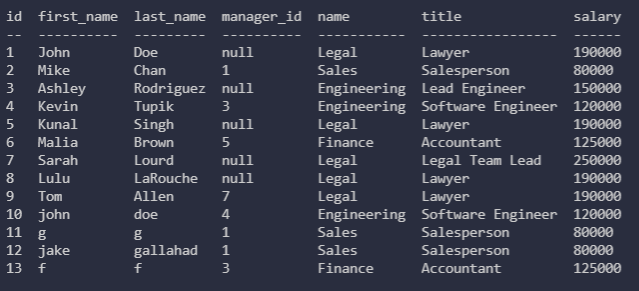
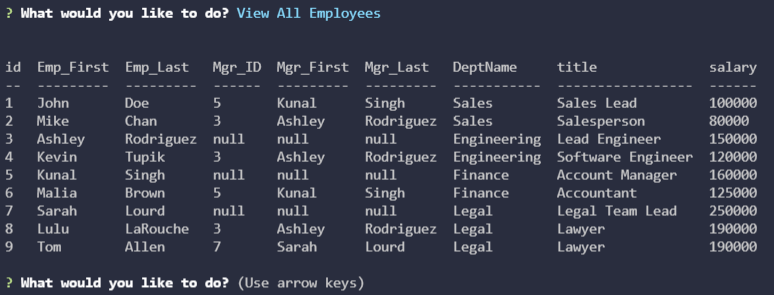
added bonus commands to code, updated README, changed screenshots, added new Walkthrough link

diff --git a/index.js b/index.js
@@ -8,7 +8,7 @@ init();
 
 // Display logo text, load main prompts
 function init() {
-  const logoText = logo({ name: "Linda's Employee Manager" }).render();
+  const logoText = logo({ name: "Rocking Employee Manager" }).render();
 
   console.log(logoText);
 
@@ -31,10 +31,10 @@ function loadMainPrompts() {
           value: "VIEW_EMPLOYEES_BY_DEPARTMENT",
         },
         // Bonus
-        // {
-        //   name: "View All Employees By Manager",
-        //   value: "VIEW_EMPLOYEES_BY_MANAGER"
-        // },
+        {
+          name: "View All Employees By Manager",
+          value: "VIEW_EMPLOYEES_BY_MANAGER"
+        },
         {
           name: "Add Employee",
           value: "ADD_EMPLOYEE",
@@ -49,10 +49,10 @@ function loadMainPrompts() {
           value: "UPDATE_EMPLOYEE_ROLE",
         },
         // Bonus
-        // {
-        //   name: "Update Employee Manager",
-        //   value: "UPDATE_EMPLOYEE_MANAGER"
-        // },
+        {
+          name: "Update Employee Manager",
+          value: "UPDATE_EMPLOYEE_MANAGER"
+        },
         {
           name: "View All Roles",
           value: "VIEW_ROLES",
@@ -92,10 +92,14 @@ function loadMainPrompts() {
         return viewEmployees();
       case "VIEW_EMPLOYEES_BY_DEPARTMENT":
         return viewEmployeesByDepartment();
+      case "VIEW_EMPLOYEES_BY_MANAGER":
+        return viewEmployeesByManager();
       case "ADD_EMPLOYEE":
         return addEmployee();
       case "UPDATE_EMPLOYEE_ROLE":
         return updateEmployeeRole();
+      case "UPDATE_EMPLOYEE_MANAGER":
+        return updateEmployeeManager();
       case "VIEW_DEPARTMENTS":
         return viewDepartments();
       case "ADD_DEPARTMENT":
@@ -148,6 +152,33 @@ async function viewEmployeesByDepartment() {
   loadMainPrompts();
 }
 
+async function viewEmployeesByManager() {
+  const managers = await db.findAllManagers();
+
+  const managerChoices = managers.map(({ id, name }) => ({
+    // CREATE TWO PROPERTIES name AND value FOR THIS OBJECT. THE PROPERTY name SHOULD CONTAIN THE NAME OF THE Manager.
+    // THE PROPERTY value SHOULD CONTAIN id.
+       name,
+       value: id
+
+  }));
+
+  const { managerId } = await prompt([
+    {
+      type: "list",
+      name: "managerId",
+      message: "Which manager would you like to see employees for?",
+      choices: managerChoices,
+    },
+  ]);
+
+  const employees = await db.findAllEmployeesByManager(managerId);
+
+  console.log("\n");
+  console.table(employees);
+
+  loadMainPrompts();
+}
 async function updateEmployeeRole() {
   const employees = await db.findAllEmployees();
 
@@ -190,6 +221,52 @@ async function updateEmployeeRole() {
   await db.updateEmployeeRole(employeeId, roleId);
 
   console.log(chalk.magenta("Updated employee's role"));
+
+  loadMainPrompts();
+}
+
+async function updateEmployeeManager() {
+  const employees = await db.findAllEmployees();
+
+  const employeeChoices = employees.map(({ id, Emp_First, Emp_Last}) => ({
+    // CREATE TWO PROPERTIES name AMD value FOR THIS OBJECT. THE PROPERTY name SHOULD CONTAIN THE CONCATENATION OF THE FIRST HAME AND THE LAST NAME.
+    // THE PROPERTY value SHOULD CONTAIN id.
+    // THIS OBJECT FOR EACH MANAGER WILL RETURN TO MAP() TO CONSTRUCT AN ARRAY TO BE RETURNED AND BE STORED TO managerChoices.
+    // TODO: YOUR CODE
+      value: id,
+      name : Emp_First + ' ' + Emp_Last
+    
+  }));
+
+  const { employeeId } = await prompt([
+    {
+      type: "list",
+      name: "employeeId",
+      message: "Which employee's manager do you want to update?",
+      choices: employeeChoices,
+    },
+  ]);
+
+  const managers = await db.findAllPossibleManagers(employeeId);
+
+  const managerChoices = managers.map(({ id, first_name, last_name }) => ({
+    value: id,
+    name: first_name + ' ' +last_name
+  }));
+
+
+  const { managerId } = await prompt([
+    {
+      type: "list",
+      name: "managerId",
+      message: "Which manager do you want to assign the selected employee?",
+      choices: managerChoices,
+    },
+  ]);
+
+  await db.updateEmployeeManager(employeeId, managerId);
+
+  console.log(chalk.magenta("Updated employee's Manager"));
 
   loadMainPrompts();
 }

diff --git a/db/index.js b/db/index.js
@@ -14,15 +14,17 @@ class DB {
       
       // YOUR NEED TO USE LEFT JOINS TO JOIN THREE TABLES
       // TODO: YOUR CODE HERE - DONE
-      "SELECT employee.id, employee.first_name, employee.last_name, employee.manager_id,\
-      department.name, \
-     role.title,  role.salary FROM employee \
-      LEFT JOIN role \
-      ON employee.role_id = role.id\
-      LEFT JOIN department \
-      ON role.department_id = department.id" 
+    // 
+    // "SELECT \
+    //   e.id, \
+    //   e.first_name,\
+    //   e.manager_id,\
+    //   m.first_name AS ManagerName \
+    //  FROM employee e \
+    //  JOIN employee m \
+    //  ON e.manager_id = m.id"
 
-    //   "SELECT e.id, e.first_name + ' ' + e.last_name employee,\
+    //   "SELECT e.id, e.first_name + ' ' + e.last_name employees,\
     //    m.first_name + " " + m.last_name manager,\
     //   department.name, \
     //  role.title,  role.salary \
@@ -32,6 +34,25 @@ class DB {
     //   ON e.role_id = role.id\
     //   LEFT JOIN department \
     //   ON role.department_id = department.id" 
+          "SELECT e.id, e.first_name Emp_First,e.last_name Emp_Last,\
+          m.id Mgr_ID, m.first_name Mgr_First,m.last_name Mgr_Last,\
+         department.name AS DeptName, \
+        role.title,  role.salary \
+        FROM employee e\
+        LEFT JOIN employee m ON m.id = e.manager_id \
+         LEFT JOIN role \
+         ON e.role_id = role.id\
+         LEFT JOIN department \
+         ON role.department_id = department.id" 
+    );
+  }
+
+  // Find all managers
+  findAllManagers() {
+    return this.connection.query(
+      "SELECT DISTINCT m.id, CONCAT(m.first_name, ' ', m.last_name) name \
+      FROM employee m\
+      JOIN employee e ON e.manager_id = m.id",
     );
   }
 

diff --git a/README.md b/README.md
@@ -8,8 +8,15 @@
 
 * When starting the application, the user is presented with a list of options that are clear and easy to follow.
 
-* The changes that the user makes are reflected in the database.
+* The changes that the user requests are reflected in the database.
 
+* The Bonus commands of "View Employees By Manager" and "Update Employee Manager were implemented.
+
+* The chalk module was used to change the console.log color to make the text more apparent.
+
+* I used a SELF JOIN to list the manager name in addition to the manager id in viewAllEmployees(), and in findAllManagers()
+
+* I used the DISTINCT keyword to remove duplicates from findAllManagers().
 
 [![License: MIT](https://img.shields.io/badge/License-MIT-yellow.svg)](https://opensource.org/licenses/MIT)
 
@@ -69,8 +76,13 @@ and follow the prompts
 
 ## Deliverables
 
-### Walkthrough Video Link
+### Walkthrough Video Links
+
+**Required Commands**
 [Rocking Employee Management app](https://watch.screencastify.com/v/DkkAK96SiyKpON5ybx7k)
+
+**Bonus Commands - ViewAllEmployeesByManager, UpdateEmployeeManager**
+[Manager Bonus Commands](https://watch.screencastify.com/v/YDKHTxTGdMZ2uYkWwvsR)
 
 ### Repository
 
